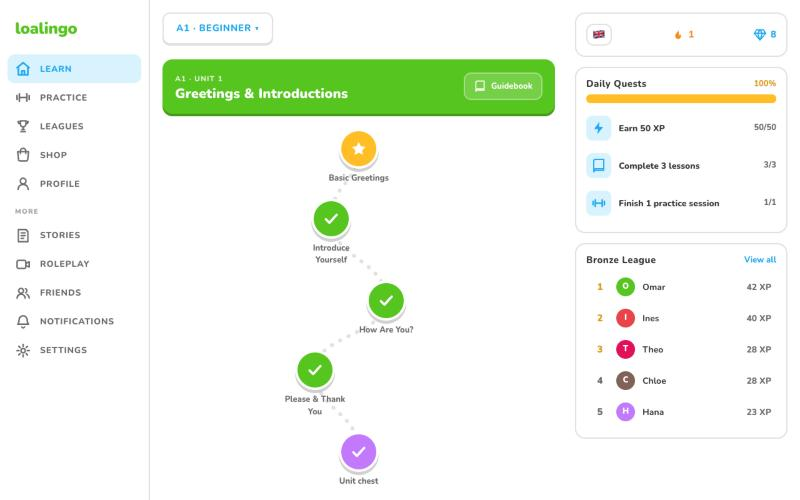
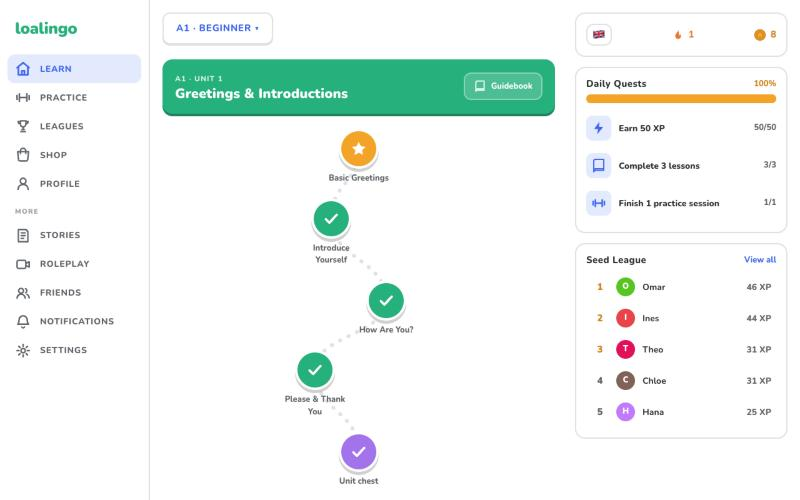
Refresh README screenshots and show a white coin on gold buttons

diff --git a/src/icons.tsx b/src/icons.tsx
@@ -7,7 +7,7 @@ const I = {
   shop:'<svg viewBox="0 0 24 24" fill="none" stroke="currentColor" stroke-width="2.2" stroke-linecap="round" stroke-linejoin="round"><path d="M4 7h16l-1.2 12a2 2 0 0 1-2 1.8H7.2a2 2 0 0 1-2-1.8L4 7Z"/><path d="M8 10V6a4 4 0 0 1 8 0v4"/></svg>',
   user:'<svg viewBox="0 0 24 24" fill="none" stroke="currentColor" stroke-width="2.2" stroke-linecap="round"><circle cx="12" cy="8" r="4.2"/><path d="M4.5 20.5a7.5 7.5 0 0 1 15 0"/></svg>',
   flame:'<svg viewBox="0 0 24 24" fill="#f4862a" stroke="none"><path d="M12 2.5c.8 3.2-1.6 4.7-3 6.3C7.6 10.4 7 12 7 14a5 5 0 0 0 10 0c0-1.2-.3-2.2-.9-3.2-.7 1-1.6 1.7-2.6 2 .5-2.8-.6-7.4-1.5-10.3Z"/></svg>',
-  gem:'<svg viewBox="0 0 24 24" fill="none" stroke="#d4930b" stroke-width="2"><circle cx="12" cy="12" r="9" fill="#f5b014"/><circle cx="12" cy="12" r="5.5"/></svg>',
+  gem:'<svg viewBox="0 0 24 24" fill="none" stroke="var(--coin-edge,#d4930b)" stroke-width="2"><circle cx="12" cy="12" r="9" fill="var(--coin,#f5b014)"/><circle cx="12" cy="12" r="5.5"/></svg>',
   heart:'<svg viewBox="0 0 24 24" fill="#f0565c" stroke="none"><path d="M12 21C7 16.6 2.5 13 2.5 8.9 2.5 6 4.7 4 7.3 4c1.8 0 3.5 1 4.7 2.7C13.2 5 14.9 4 16.7 4c2.6 0 4.8 2 4.8 4.9 0 4.1-4.5 7.7-9.5 12.1Z"/></svg>',
   star:'<svg viewBox="0 0 24 24" fill="currentColor" stroke="none"><path d="m12 2.6 2.9 5.9 6.5.9-4.7 4.6 1.1 6.5L12 17.4l-5.8 3.1 1.1-6.5L2.6 9.4l6.5-.9L12 2.6Z"/></svg>',
   check:'<svg viewBox="0 0 24 24" fill="none" stroke="currentColor" stroke-width="3.2" stroke-linecap="round" stroke-linejoin="round"><path d="m4.5 12.5 5 5 10-11"/></svg>',

diff --git a/src/styles.css b/src/styles.css
@@ -125,6 +125,8 @@ svg{display:block}
 .btn-ghost:hover{background:var(--surface)}
 .btn-danger{background:var(--red);color:#fff;box-shadow:0 4px 0 var(--red-dark)}
 .btn[disabled]{background:var(--border);color:var(--text-faint);box-shadow:none;cursor:not-allowed;transform:none}
+/* coin on a coloured button: white face so it stays visible on gold */
+.btn-gold{--coin:#fff;--coin-edge:rgba(0,0,0,.18)}
 .btn-block{width:100%}
 
 /* ===== Learn path ===== */
